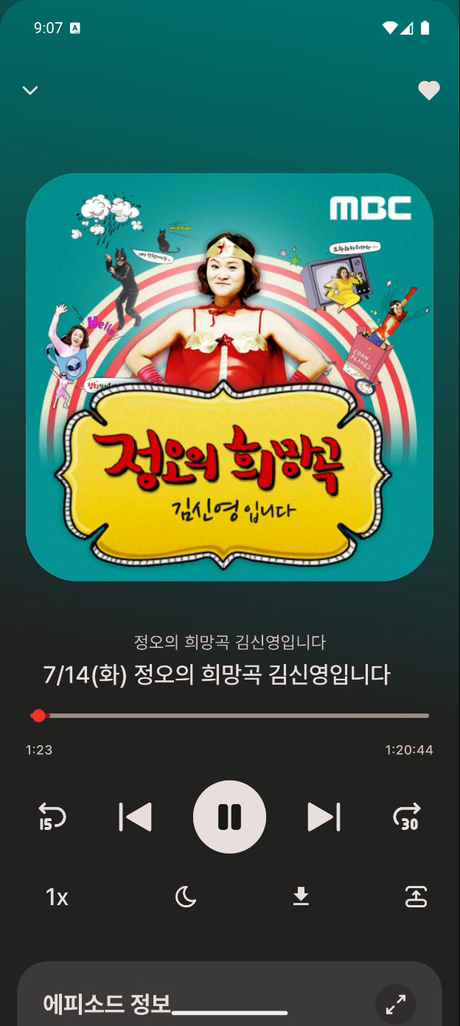
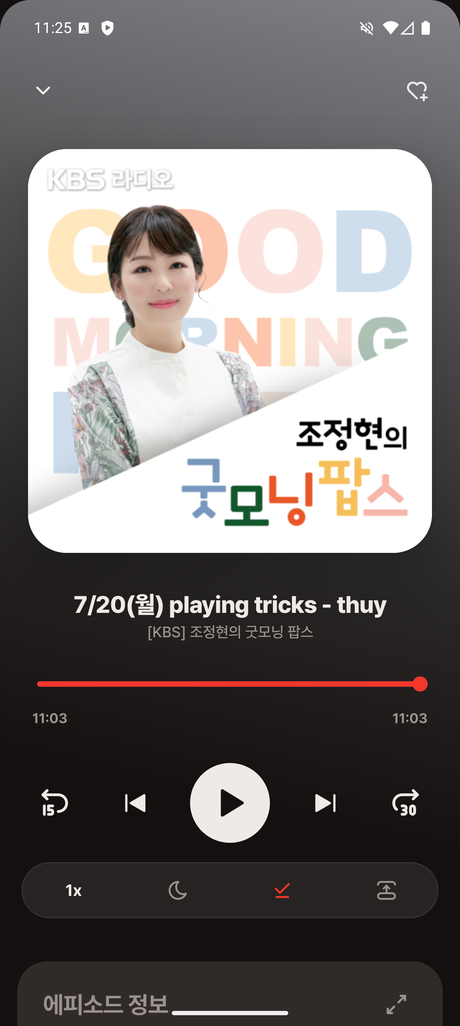
v2 UI 기준 데모 GIF·포트폴리오 자산 갱신
v2 디자인(#90~#92) 이후 README와 포트폴리오의 화면 자산이 구버전이라
에뮬레이터에서 전 화면을 다시 촬영해 교체했다.

- 데모 GIF 8종 재촬영 (320px · 10~12fps, 합계 18MB로 기존 수준 유지)
- 포트폴리오 스크린샷 8종 재촬영 (460×1026)
- README: 화면 캡션 추가, 디자인 시스템 섹션 신설(토큰·대표색 추출)
- PORTFOLIO: 수치 최신화(561파일·59,000줄·커밋 92), 캡션 v2화,
  "7. 디자인 시스템 v2 리디자인" 슬라이드 추가 후 이후 번호 재배치

diff --git a/README.md b/README.md
@@ -9,15 +9,19 @@ Podcast Index Api 활용한 팟캐스트 앱
 |                     **온보딩**                     |                   **홈**                    |                    **검색**                    |                    **팟캐스트**                    |
 |:----------------------------------------------:|:------------------------------------------:|:--------------------------------------------:|:----------------------------------------------:|
 | <img src="docs/gifs/onboarding.gif" width="150"> | <img src="docs/gifs/home.gif" width="150"> | <img src="docs/gifs/search.gif" width="150"> | <img src="docs/gifs/podcast.gif" width="150"> |
+|             카테고리 선택 → 맞춤 팟캐스트 팔로우             |          최신 피드 · 랜덤/인기 · 라이브 피드          |         팟캐스트·에피소드 통합 검색 + 검색 기록         |          앨범 아트 기반 동적 테마 · 에피소드 목록          |
 
 |                    **플레이어**                    |                    **보관함**                    |                   **클립**                   |                    **위젯**                    |
 |:--------------------------------------------:|:---------------------------------------------:|:------------------------------------------:|:--------------------------------------------:|
 | <img src="docs/gifs/player.gif" width="150"> | <img src="docs/gifs/library.gif" width="150"> | <img src="docs/gifs/clip.gif" width="150"> | <img src="docs/gifs/widget.gif" width="150"> |
+|      배속 다이얼 · 슬립타이머 · ±15/30초 시킹      |        필터 칩으로 기록·좋아요·팔로우 전환        |        사운드바이트 카드 세로 스와이프 탐색        |        Glance 위젯에서 바로 재생 제어        |
+
+> 위 GIF는 v2 디자인(2026.07) 기준으로 재촬영했습니다.
 
 # 주요 기능
 
-- **온보딩**: 선호 카테고리 및 팟캐스트 선택으로 개인화된 경험 제공
-- **홈**: 최근 재생 에피소드, 트렌딩 팟캐스트, 랜덤 에피소드, 라이브 방송 등 다양한 콘텐츠 피드
+- **온보딩**: 선호 카테고리(한글 표시명 112종) 및 팟캐스트 선택으로 개인화된 경험 제공
+- **홈**: 최근 재생 에피소드, 트렌딩 팟캐스트, 랜덤 에피소드, 라이브 방송 등 다양한 콘텐츠 피드 (데이터가 없는 섹션은 자동 숨김)
 - **검색**: 팟캐스트 및 에피소드 검색, 최근 검색 히스토리, 최신 콘텐츠 탐색
 - **라이브러리**: 구독, 좋아요, 재생 기록 등 사용자 데이터 관리
 - **클립**: 사운드바이트 및 짧은 구간 미리듣기 기능
@@ -26,6 +30,7 @@ Podcast Index Api 활용한 팟캐스트 앱
 - **백그라운드 동기화**: WorkManager 기반 3시간 주기 에피소드 동기화 및 새 에피소드 알림
 - **홈 화면 위젯**: Glance 기반 위젯으로 홈 화면에서 바로 재생 제어 및 팔로우 피드 확인
 - **Last Play**: 마지막 재생 위치 기억 및 이어듣기
+- **동적 테마**: 앨범 아트에서 추출한 대표색을 플레이어·상세·미니플레이어·위젯 배경에 일관되게 적용
 
 # 아키텍처
 
@@ -88,6 +93,33 @@ Data Sources: Network (:core:network) | Database (:core:database) | DataStore (:
 |:-------|:-------------------------------|
 | `:app` | 네비게이션 및 의존성 통합을 담당하는 메인 애플리케이션 |
 
+# 디자인 시스템
+
+v2 디자인(2026.07)은 **344×746 목업(1px = 1dp)** 을 기준으로 재정비했습니다. ViewModel·UseCase·Repository·Room·네트워크 로직과 MVI 시그니처는 그대로 두고 `:core:designsystem`·`:core:ui`의 표현 계층만 교체했습니다.
+
+## 토큰
+
+| 영역 | 내용 |
+|:----|:----|
+| **타이포그래피** | Pretendard 6웨이트(Light ~ ExtraBold) — Display / Headline / Title은 ExtraBold로 위계 강조 |
+| **셰이프** | `EpisodiveShapes` 시맨틱 토큰 — field 14 · miniPlayer 18 · searchBar 20 · card 24 · bottomSheet 28 · playerCover 36 · heroCover 40 (dp) · pill 50% |
+| **치수** | `DimensionTheme` + `LocalDimensionTheme` CompositionLocal — 목업 기준 간격·썸네일·버튼 높이를 한곳에서 관리 |
+| **색상** | 다크 뉴트럴의 붉은 끼 완화, 스플래시·윈도우 배경까지 테마와 정합 |
+
+## 동적 색상 추출
+
+앨범 아트 대표색 추출을 `EpisodiveDominantColor` 하나로 통일했습니다(기존 홈 위젯 방식 기준).
+
+```kotlin
+object EpisodiveDominantColor {
+    fun extract(bitmap: Bitmap, region: DominantRegion = DominantRegion.Full): Color?
+    fun darken(argb: Int): Int
+}
+```
+
+- `DominantRegion`으로 추출 영역을 지정 → 커버 비율이 다른 화면에서도 같은 색이 나옵니다
+- 플레이어·팟캐스트 상세·미니플레이어·홈 위젯이 동일한 추출 결과를 공유합니다
+
 # 기술 스택
 
 ## Android
@@ -96,6 +128,7 @@ Data Sources: Network (:core:network) | Database (:core:database) | DataStore (:
 - **Target SDK**: 36 (Android 16)
 - **Language**: Kotlin 2.2.21
 - **UI Framework**: Jetpack Compose (BOM 2025.12.00)
+- **Typography**: Pretendard (Light ~ ExtraBold 6웨이트)
 - **Build**: Gradle AGP 8.13.1, KSP 2.3.1
 
 ## 핵심 라이브러리
@@ -230,7 +263,9 @@ sealed interface SearchEffect {
 
 ## 개발 문서
 
+- [디자인 시스템](DESIGN.md) - 색상·타이포·컴포넌트 카탈로그
 - [구현 체크리스트](docs/IMPLEMENTATION_CHECKLIST.md) - 기능 구현 진행 상황
+- [포트폴리오](docs/portfolio/PORTFOLIO.md) - 프로젝트 소개 슬라이드
 
 ---
 
